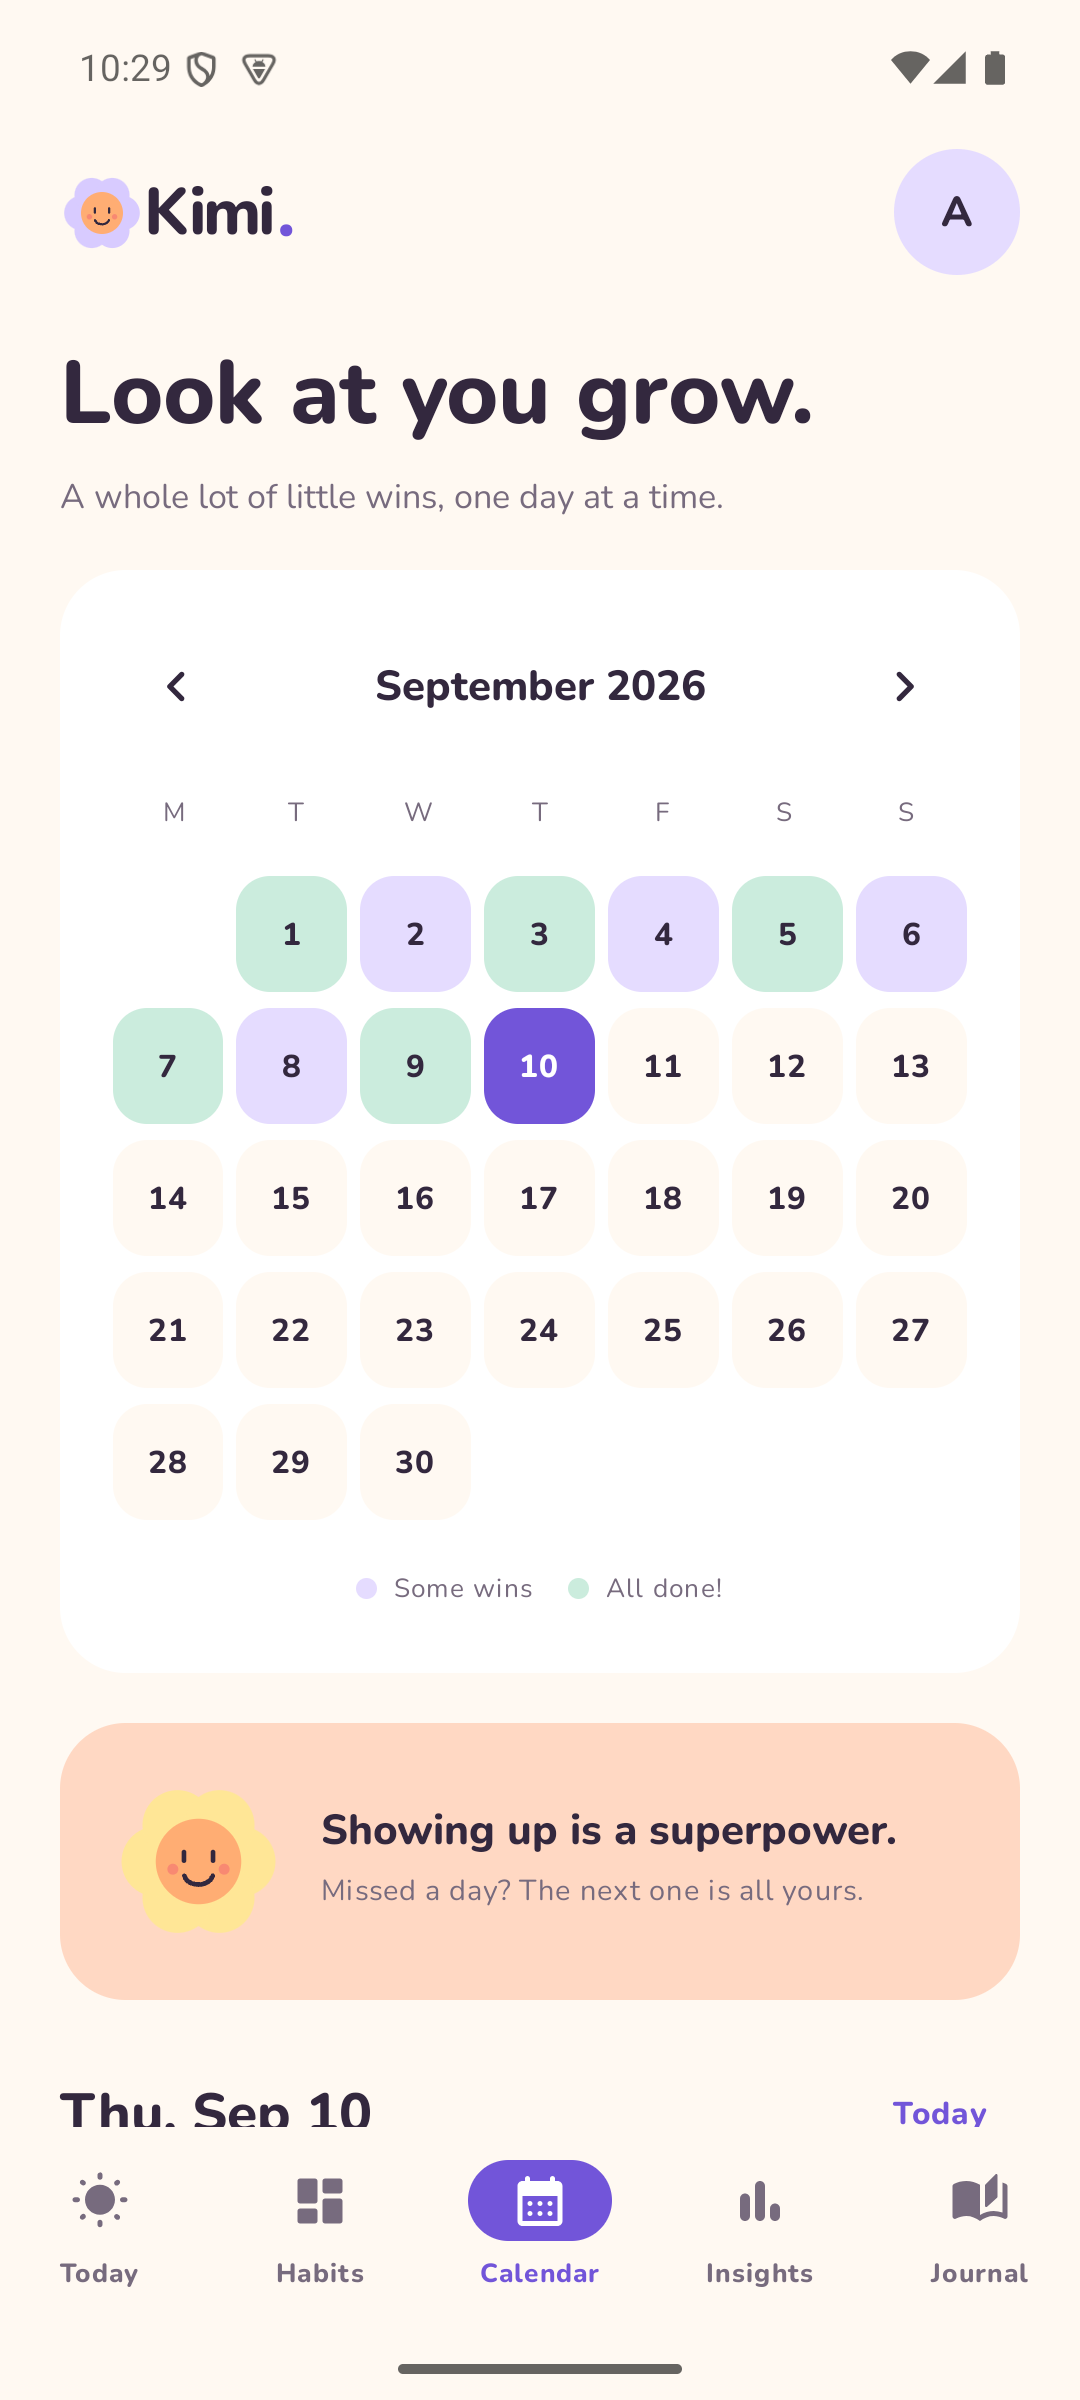
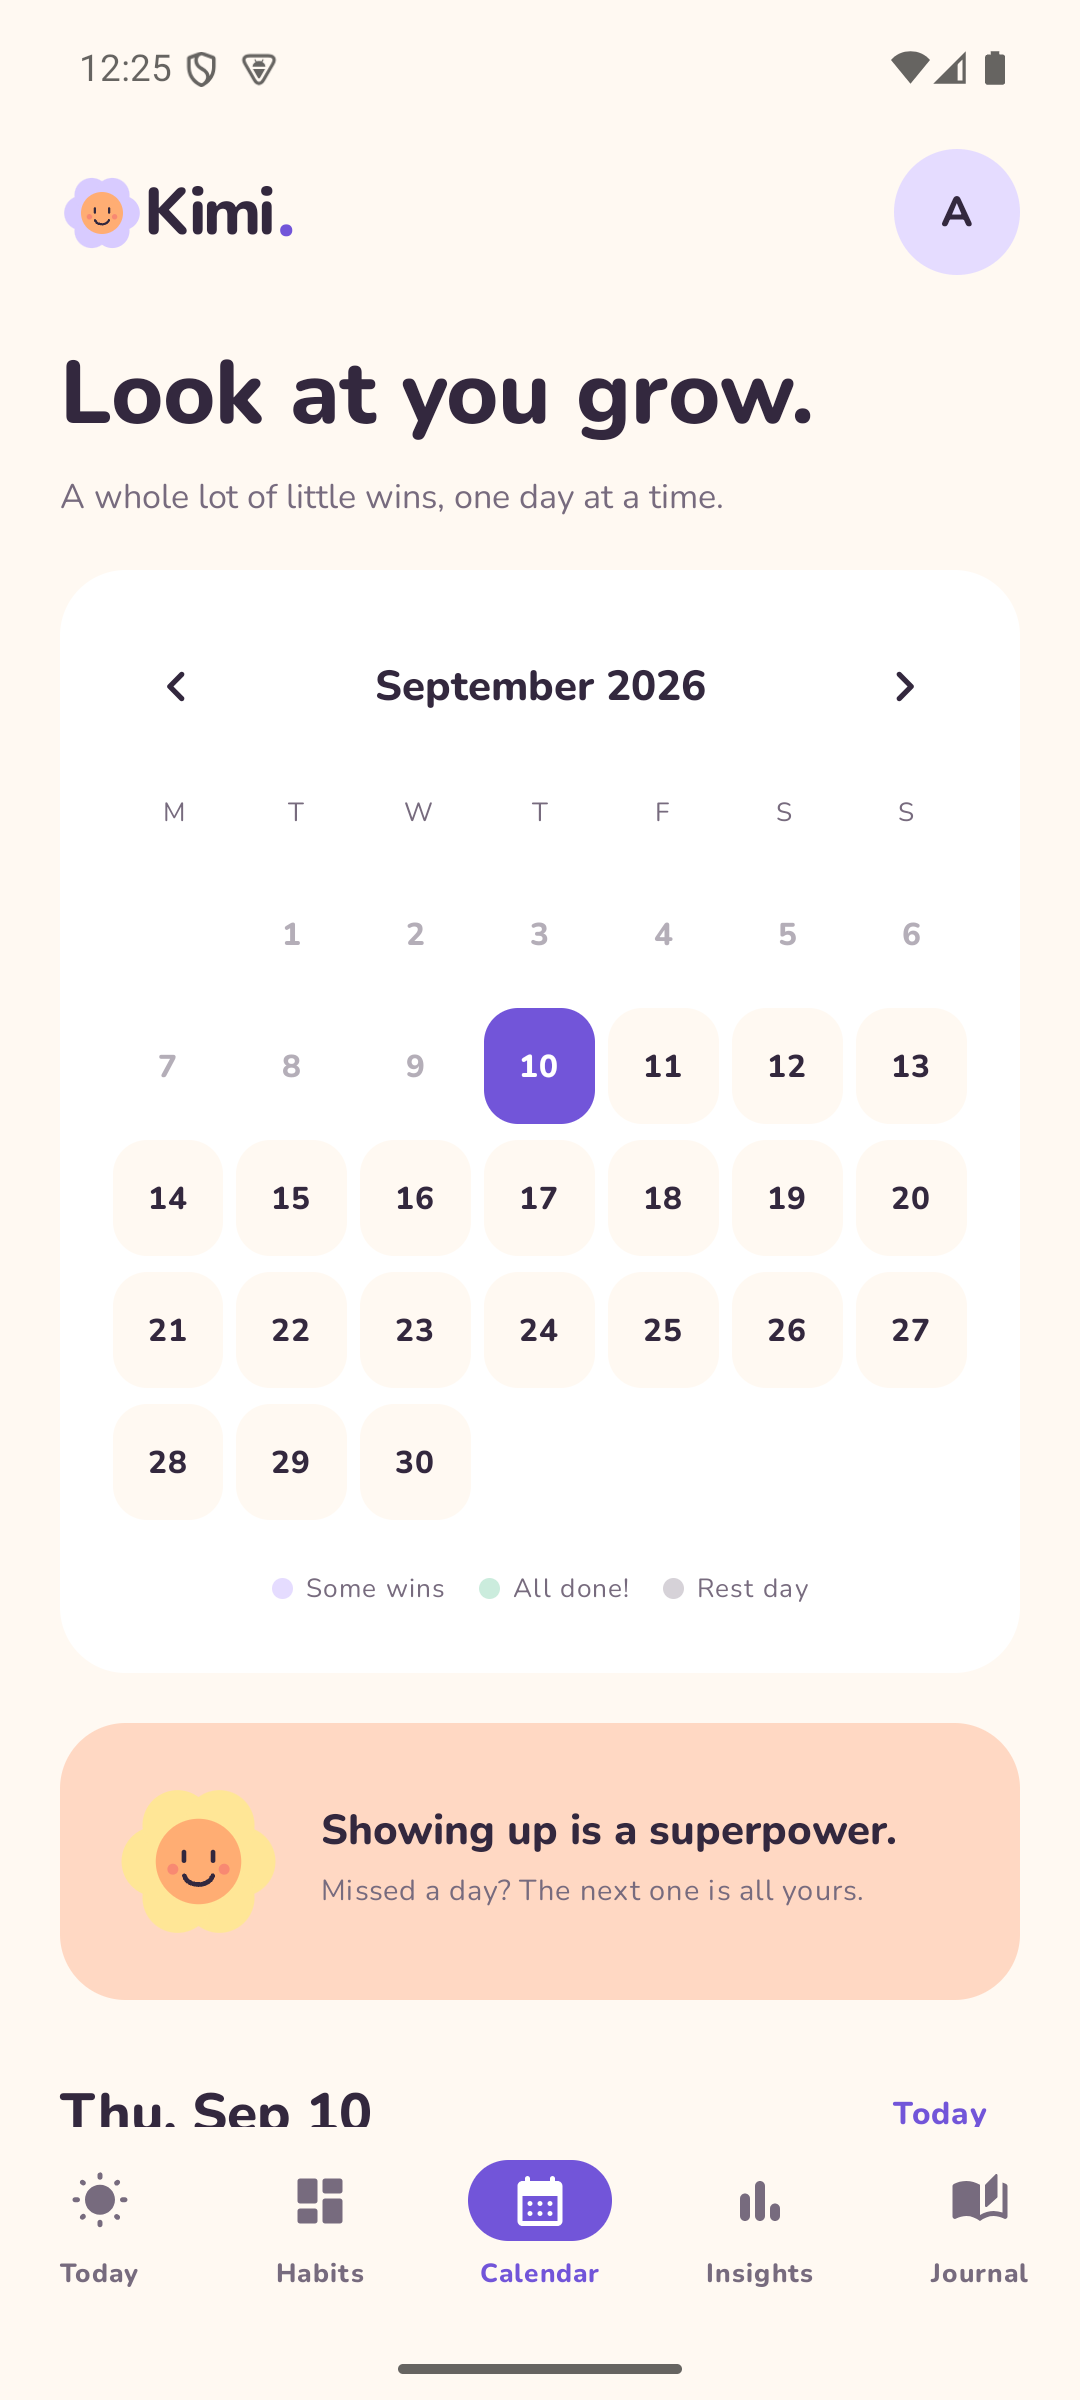
Stop drawing rest days as zeros
The summary figures always excluded days with nothing scheduled -
consistency and streaks divide by scheduled days only - but three
per-day visuals called percent(date), which returns 0 both for "you
missed everything" and "nothing was asked of you". A weekdays-only habit
with a flawless record therefore rendered as a chart that collapsed
every weekend, two blank calendar cells a week, and two empty dots on
its week strip, all identical to genuine failures. A brand new user saw
six zero-height bars for the six days before their habits existed.

InsightSummary now carries DayScore(date, percent, rest) per column, so
the screens read the distinction rather than each re-deriving it:

- Seven-day chart: a dash and a flat muted marker instead of a 0% bar.
- Calendar: cell left unfilled with a muted number, plus a Rest day
  legend entry alongside Some wins and All done.
- Habit week strip: days the habit was never due on are left blank
  instead of showing the missed-day dot. The strip also gains a content
  description summarising the week, which it had none of before.

Adds a regression test asserting that a perfect weekday record contains
no column that is both non-rest and below 100%, and updates the existing
week assertions for the new type.

20 JVM unit tests + 9 connected Android tests pass, lint 0 errors.

diff --git a/app/src/main/java/com/forma/habits/Screens.kt b/app/src/main/java/com/forma/habits/Screens.kt
@@ -197,14 +197,24 @@ private val MonthLabel = DateTimeFormatter.ofPattern("MMMM yyyy")
                     IconButton(onClick = { onEdit(h) }) { Icon(Icons.Rounded.Edit, stringResource(R.string.cd_edit_habit, h.name), Modifier.size(21.dp)) }
                 }
                 Spacer(Modifier.height(18.dp))
-                Row(Modifier.fillMaxWidth(), horizontalArrangement = Arrangement.SpaceBetween) {
-                    repeat(7) { i ->
-                        val d = today.minusDays((6 - i).toLong()); val done = state.done(h.id, d)
+                val week = (0..6).map { today.minusDays((6 - it).toLong()) }
+                val scheduledDays = week.count { h.isDue(it) }
+                val weekLabel = pluralStringResource(R.plurals.cd_habit_week, scheduledDays,
+                    week.count { state.done(h.id, it) }, scheduledDays)
+                Row(Modifier.fillMaxWidth().semantics { contentDescription = weekLabel }, horizontalArrangement = Arrangement.SpaceBetween) {
+                    week.forEach { d ->
+                        val done = state.done(h.id, d); val scheduled = h.isDue(d)
                         Column(horizontalAlignment = Alignment.CenterHorizontally) {
                             Text(d.dayOfWeek.name.take(1), fontSize = 10.sp, color = Quiet)
                             Spacer(Modifier.height(6.dp))
-                            Box(Modifier.size(30.dp).clip(RoundedCornerShape(10.dp)).background(if (done) Ink else Overlay), contentAlignment = Alignment.Center) {
-                                if (done) Icon(Icons.Rounded.Check, null, Modifier.size(17.dp), tint = OnInk) else Text("·", color = Quiet)
+                            // A day this habit was never due on is left blank, not marked missed.
+                            Box(Modifier.size(30.dp).clip(RoundedCornerShape(10.dp))
+                                .background(if (done) Ink else if (scheduled) Overlay else Color.Transparent), contentAlignment = Alignment.Center) {
+                                when {
+                                    done -> Icon(Icons.Rounded.Check, null, Modifier.size(17.dp), tint = OnInk)
+                                    scheduled -> Text("·", color = Quiet)
+                                    else -> Text(stringResource(R.string.rest_marker), color = Quiet.copy(alpha = .45f), fontSize = 11.sp)
+                                }
                             }
                         }
                     }
@@ -250,12 +260,16 @@ private val MonthLabel = DateTimeFormatter.ofPattern("MMMM yyyy")
                             if (day !in 1..month.lengthOfMonth()) Box(Modifier.weight(1f).height(44.dp))
                             else {
                                 val d = month.atDay(day); val pct = state.percent(d); val selected = d == date
-                                val dayLabel = pluralStringResource(R.plurals.cd_calendar_day, state.count(d), d.format(ShortDate), state.count(d))
+                                val rest = state.isRestDay(d)
+                                val dayLabel = if (rest) stringResource(R.string.cd_calendar_day_rest, d.format(ShortDate))
+                                    else pluralStringResource(R.plurals.cd_calendar_day, state.count(d), d.format(ShortDate), state.count(d))
                                 Box(Modifier.weight(1f).height(44.dp).clip(RoundedCornerShape(13.dp))
-                                    .background(if (selected) Purple else if (pct == 100) Mint else if (pct > 0) Lavender else Cream)
+                                    // A rest day stays unfilled so it never reads as a day you missed.
+                                    .background(if (selected) Purple else if (rest) Color.Transparent else if (pct == 100) Mint else if (pct > 0) Lavender else Cream)
                                     .clickable(role = Role.Button) { dateString = d.toString() }
                                     .semantics { contentDescription = dayLabel }, contentAlignment = Alignment.Center) {
-                                    Text(day.toString(), fontWeight = FontWeight.Bold, fontSize = 12.sp, color = if (selected) OnAccent else Ink)
+                                    Text(day.toString(), fontWeight = FontWeight.Bold, fontSize = 12.sp,
+                                        color = if (selected) OnAccent else if (rest) Quiet.copy(alpha = .55f) else Ink)
                                 }
                             }
                         }
@@ -263,9 +277,10 @@ private val MonthLabel = DateTimeFormatter.ofPattern("MMMM yyyy")
                     Spacer(Modifier.height(6.dp))
                 }
                 Spacer(Modifier.height(8.dp))
-                Row(Modifier.fillMaxWidth(), horizontalArrangement = Arrangement.Center, verticalAlignment = Alignment.CenterVertically) {
-                    Box(Modifier.size(8.dp).background(Lavender, CircleShape)); Text("  " + stringResource(R.string.calendar_legend_some) + "    ", fontSize = 10.sp, color = Quiet)
-                    Box(Modifier.size(8.dp).background(Mint, CircleShape)); Text("  " + stringResource(R.string.calendar_legend_all), fontSize = 10.sp, color = Quiet)
+                Row(Modifier.fillMaxWidth(), horizontalArrangement = Arrangement.spacedBy(12.dp, Alignment.CenterHorizontally), verticalAlignment = Alignment.CenterVertically) {
+                    LegendDot(Lavender, stringResource(R.string.calendar_legend_some))
+                    LegendDot(Mint, stringResource(R.string.calendar_legend_all))
+                    LegendDot(Quiet.copy(alpha = .3f), stringResource(R.string.calendar_legend_rest))
                 }
             }
         }
@@ -315,12 +330,17 @@ private val MonthLabel = DateTimeFormatter.ofPattern("MMMM yyyy")
                 Text(stringResource(R.string.insights_week_chart), style = MaterialTheme.typography.titleMedium)
                 Spacer(Modifier.height(24.dp))
                 Row(Modifier.fillMaxWidth().then(if (enlargedText) Modifier.heightIn(min = 165.dp) else Modifier.height(165.dp)), horizontalArrangement = Arrangement.spacedBy(11.dp), verticalAlignment = Alignment.Bottom) {
-                    summary.week.forEachIndexed { i, (date, p) ->
-                        val barLabel = pluralStringResource(R.plurals.cd_chart_bar, p, date.format(ShortDate), p)
+                    summary.week.forEachIndexed { i, day ->
+                        val barLabel = if (day.rest) stringResource(R.string.cd_chart_bar_rest, day.date.format(ShortDate))
+                            else pluralStringResource(R.plurals.cd_chart_bar, day.percent, day.date.format(ShortDate), day.percent)
                         Column(Modifier.weight(1f).semantics { contentDescription = barLabel }, horizontalAlignment = Alignment.CenterHorizontally, verticalArrangement = Arrangement.Bottom) {
-                            Text(stringResource(R.string.percent_value, p), fontSize = 9.sp, color = Quiet); Spacer(Modifier.height(7.dp))
-                            Box(Modifier.fillMaxWidth().height((p * 1.05f + 4).dp).clip(RoundedCornerShape(11.dp)).background(if (i == 6) Purple else TileColors[i % 6]))
-                            Spacer(Modifier.height(9.dp)); Text(date.dayOfWeek.name.take(1), fontSize = 10.sp, color = Quiet)
+                            // A rest day shows a dash and a flat marker; charting it as 0% would
+                            // make a perfect week look like it collapsed every weekend.
+                            Text(if (day.rest) stringResource(R.string.rest_marker) else stringResource(R.string.percent_value, day.percent),
+                                fontSize = 9.sp, color = Quiet); Spacer(Modifier.height(7.dp))
+                            Box(Modifier.fillMaxWidth().height(if (day.rest) 4.dp else (day.percent * 1.05f + 4).dp).clip(RoundedCornerShape(11.dp))
+                                .background(if (day.rest) Quiet.copy(alpha = .25f) else if (i == 6) Purple else TileColors[i % 6]))
+                            Spacer(Modifier.height(9.dp)); Text(day.date.dayOfWeek.name.take(1), fontSize = 10.sp, color = Quiet)
                         }
                     }
                 }
@@ -339,6 +359,13 @@ private val MonthLabel = DateTimeFormatter.ofPattern("MMMM yyyy")
             }
         }
         item { Text(stringResource(R.string.insights_footnote), color = Quiet, fontSize = 10.sp) }
+    }
+}
+
+@Composable private fun LegendDot(color: Color, label: String) {
+    Row(verticalAlignment = Alignment.CenterVertically, horizontalArrangement = Arrangement.spacedBy(5.dp)) {
+        Box(Modifier.size(8.dp).background(color, CircleShape))
+        Text(label, fontSize = 10.sp, color = Quiet)
     }
 }
 

diff --git a/app/src/test/java/com/forma/habits/DerivedStatsTest.kt b/app/src/test/java/com/forma/habits/DerivedStatsTest.kt
@@ -43,9 +43,9 @@ class DerivedStatsTest {
     @Test fun insightWeekCoversSevenDaysEndingToday() {
         val summary = sample().insightSummary(wednesday)
         assertEquals(7, summary.week.size)
-        assertEquals(wednesday.minusDays(6), summary.week.first().first)
-        assertEquals(wednesday, summary.week.last().first)
-        summary.week.forEach { (date, percent) -> assertEquals(sample().percent(date), percent) }
+        assertEquals(wednesday.minusDays(6), summary.week.first().date)
+        assertEquals(wednesday, summary.week.last().date)
+        summary.week.forEach { day -> assertEquals(sample().percent(day.date), day.percent) }
     }
 
     @Test fun insightConsistencyIgnoresUnscheduledDays() {
@@ -62,7 +62,29 @@ class DerivedStatsTest {
         // Five were made - Tuesday's weekday habit was left undone - which is 83%, not 100%.
         assertEquals(5, summary.wins)
         assertEquals(83, summary.percent)
-        assertEquals(0, summary.week.first().second)
+        assertEquals(0, summary.week.first().percent)
+    }
+
+    /** A flawless weekday habit must not render as a zero every Saturday and Sunday. */
+    @Test fun aPerfectWeekdayRecordHasNoZeroDays() {
+        val start = LocalDate.of(2026, 8, 24)   // Monday
+        val sunday = LocalDate.of(2026, 9, 6)
+        val habit = Habit("h", "Stretch", "Five minutes", weekdays = true, created = start)
+        val everyScheduledDay = generateSequence(start) { it.plusDays(1) }
+            .takeWhile { !it.isAfter(sunday) }
+            .filter { habit.isDue(it) }
+            .associate { it.toString() to setOf("h") }
+        val state = HabitState(listOf(habit), everyScheduledDay)
+        val summary = state.insightSummary(sunday)
+
+        assertEquals(100, summary.percent)
+        assertEquals(100, summary.consistency["h"])
+        // Every column is either a completed day or an explicit rest day - never a bare zero.
+        summary.week.forEach { day ->
+            assertTrue("${day.date} rendered as a zero", day.rest || day.percent == 100)
+        }
+        assertEquals(2, summary.week.count { it.rest })
+        summary.week.filter { it.rest }.forEach { assertFalse(habit.isDue(it.date)) }
     }
 
     @Test fun restDayIsNotAFailedDay() {

diff --git a/app/src/main/java/com/forma/habits/Stats.kt b/app/src/main/java/com/forma/habits/Stats.kt
@@ -15,9 +15,13 @@ import java.time.LocalDate
 @Immutable
 data class HabitStats(val streaks: Map<String, Int>, val bestStreak: Int)
 
+/** One column of the seven-day chart. A rest day is not a zero: nothing was asked of you. */
+@Immutable
+data class DayScore(val date: LocalDate, val percent: Int, val rest: Boolean)
+
 @Immutable
 data class InsightSummary(
-    val week: List<Pair<LocalDate, Int>>,
+    val week: List<DayScore>,
     val wins: Int,
     val percent: Int,
     val consistency: Map<String, Int>
@@ -30,7 +34,7 @@ fun HabitState.habitStats(today: LocalDate): HabitStats {
 
 fun HabitState.insightSummary(today: LocalDate): InsightSummary {
     val dates = (6L downTo 0L).map { today.minusDays(it) }
-    val week = dates.map { it to percent(it) }
+    val week = dates.map { DayScore(it, percent(it), isRestDay(it)) }
     val possible = dates.sumOf { due(it).size }
     val wins = dates.sumOf { count(it) }
     val month = (0L..29L).map { today.minusDays(it) }

diff --git a/docs/VERIFICATION.md b/docs/VERIFICATION.md
@@ -4,7 +4,7 @@
 
 Dark theme, string externalization, Firebase App Check, derived-stat caching, rest-day copy, CI and README screenshots.
 
-**Result: 19 JVM unit tests + 9 connected Android tests passed. Android lint: 0 errors, 28 warnings.**
+**Result: 20 JVM unit tests + 9 connected Android tests passed. Android lint: 0 errors, 28 warnings.**
 
 Ran on this machine against the `habit_test` AVD (Android 15 / API 35, 1080 × 2400, density 420), JDK 21, Gradle 8.14.5, Android SDK platform 36:
 
@@ -22,7 +22,12 @@ The three account tests were run with the isolated `demo-kimi-auth` Auth emulato
 - **Translatable failures.** `KimiMessage` carries a string resource id, letting `BackupCodec` and `HabitStore` stay free of any `Context` — so the JVM tests still exercise them directly — while the UI renders the message in the user's language. This also stops raw exception text from reaching the snackbar.
 - **App Check.** `KimiApp` installs Play Integrity (release) / debug (debug) providers. Enforcement is a server-side switch and is deliberately still off; see the README for the order to turn it on safely.
 - **Derived stats.** Streaks and 30-day consistency are computed once per `(state, today)` in `Stats.kt` instead of once per row drawn. A streak walks back to the habit's creation date, so the old inline version got slower with every day a habit survived.
-- **Rest days.** A day with nothing scheduled now reads as "Rest day" rather than "0% complete".
+- **Rest days.** A day with nothing scheduled is never drawn as a zero. `InsightSummary` now carries a
+  `DayScore(date, percent, rest)` per column so the screens do not each re-derive it. Today reads
+  "Rest day"; the seven-day chart shows a dash and a flat marker; the calendar leaves the cell
+  unfilled with a muted number and gains a **Rest day** legend entry; a habit's week strip leaves
+  days it was never due on blank rather than marking them missed. The summary figures already
+  excluded these days, so this is the per-day visuals catching up with the arithmetic.
 
 ### Verified by running, not only by reading
 

diff --git a/README.md b/README.md
@@ -27,7 +27,11 @@ On first launch, enter your name and choose five suggested rituals or an empty c
 
 The avatar opens Settings. The five bottom tabs retain their scrolling state. Android Back closes dialogs/sheets and returns other pages to Today.
 
-A day with nothing scheduled reads as a rest day rather than 0% complete.
+A day with nothing scheduled is a rest day, not a failure. Kimi never draws one as a zero:
+Today says "Rest day", the seven-day chart shows a dash and a flat marker, the calendar leaves
+the cell unfilled with a muted number (see the **Rest day** legend entry), and a habit's week
+strip leaves days it was never due on blank instead of marking them missed. Consistency and
+streaks have always excluded these days; now the per-day visuals agree with them.
 
 ## Appearance
 
